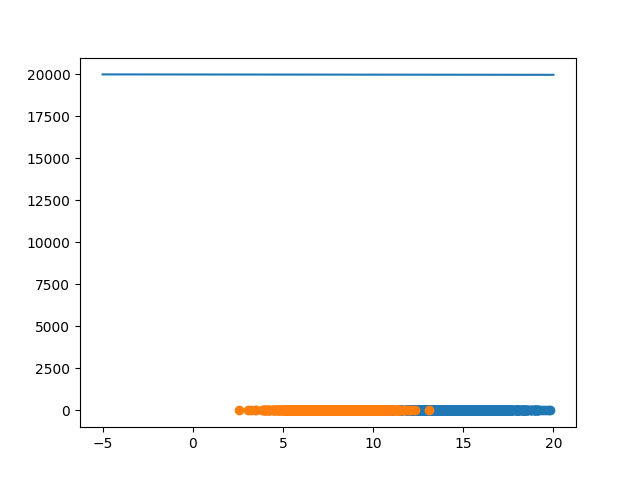
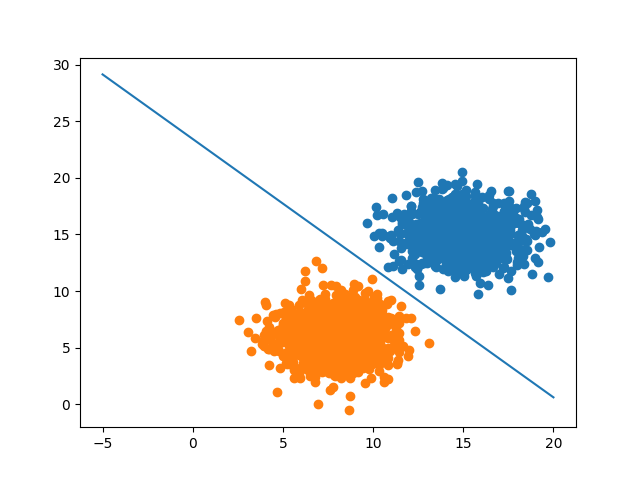
tuned hp for testing data, working model!!!

diff --git a/SVM.py b/SVM.py
@@ -2,7 +2,7 @@ import numpy as np
 
 class SVM:
 
-    def __init__(self, learning_rate=0.05, epochs=1000):
+    def __init__(self, learning_rate=0.01, epochs=1000):
         # Constructor
         print("CONSTRUCTING")
         self.w = None
@@ -37,16 +37,20 @@ class SVM:
             for idx, V in enumerate(X):
                 # Use numpy.insert() to add the value at the front (position 0)
                 V = np.insert(V, 0, [1])
+                # 1 x1 x2
                 #print(V)
+
                 if y[idx] * (np.dot(self.w,np.transpose(V))) < 1:
                     #                     y[1] * V[(1 + p) x 1]
                     hinge_loss_gradient = y[idx] * V
+
                     #self.w = self.w - self.learning_rate * (hinge_loss_gradient)
-                    self.w = self.w - np.multiply(self.learning_rate, hinge_loss_gradient)
+                    self.w = self.w + np.multiply(self.learning_rate, hinge_loss_gradient)
                     #self.b = self.b + self.learning_rate * y[idx]
 
 
         self.b = self.w[0]
+
          # Magic numberr working for b           
         #self.b = 23*(-1 * self.w[1])
 
@@ -72,8 +76,8 @@ class SVM:
         # Include bias values somehow
         predictions = []
         for i in X:
-            X = np.insert(X, 0, [1])
-            scores = np.dot(i, np.transpose(self.w)) + self.b
+            I = np.insert(i, 0, [1])
+            scores = np.dot(I, np.transpose(self.w))
             predictions.append(np.sign(scores))
 
         return predictions

diff --git a/fake_data_testing.py b/fake_data_testing.py
@@ -11,10 +11,10 @@ from sklearn.model_selection import train_test_split
 ##################
 n_pts = 1000
 np.random.seed(0)
-Xa = np.array([np.random.normal(15, 1.75, n_pts),
-              np.random.normal(15, 1.75, n_pts)]).T
-Xb = np.array([np.random.normal(8, 1.75, n_pts),
+Xa = np.array([np.random.normal(8, 1.75, n_pts),
               np.random.normal(6, 1.75, n_pts)]).T
+Xb = np.array([np.random.normal(15, 1.75, n_pts),
+              np.random.normal(15, 1.75, n_pts)]).T
 
 X = np.vstack((Xa, Xb))
 negative_ones = np.full((1, n_pts), -1)
@@ -41,12 +41,12 @@ print("SDSDSDDS")
 
 
 #Class1[0] Class2[0]
-svm = SVM.SVM(learning_rate=0.01, epochs=2000)
+svm = SVM.SVM(learning_rate=0.01, epochs=6000)
 print("REACHED THIS FAR1")
 svm.train(X,Y)
 print("REACHED THIS FAR2")
 y_pred = svm.predict(X)
-print(svm.accuracy(Y, y_pred))
+print(f"accuracy = {svm.accuracy(Y, y_pred)}")
 
 
 
@@ -57,16 +57,17 @@ print(svm.w)
 w1 = svm.w[1]
 w2 = svm.w[2]
 
-b = svm.b
+b = svm.w[0]
 
 print("REACHED THIS FAR3")
 print(f"W1: {w1}")
 print(f"W2: {w2}")
+print(f"B: {b}")
 
 
 ######
-y_start = (-w1/w2) * (-5) - b/w2
-y_end = (-w1/w2) * (20) - b/w2
+y_start = (-1  * w1/w2) * (-5) - b/w2
+y_end = (-1 * w1/w2) * (20) - b/w2
 
 
 ########################
